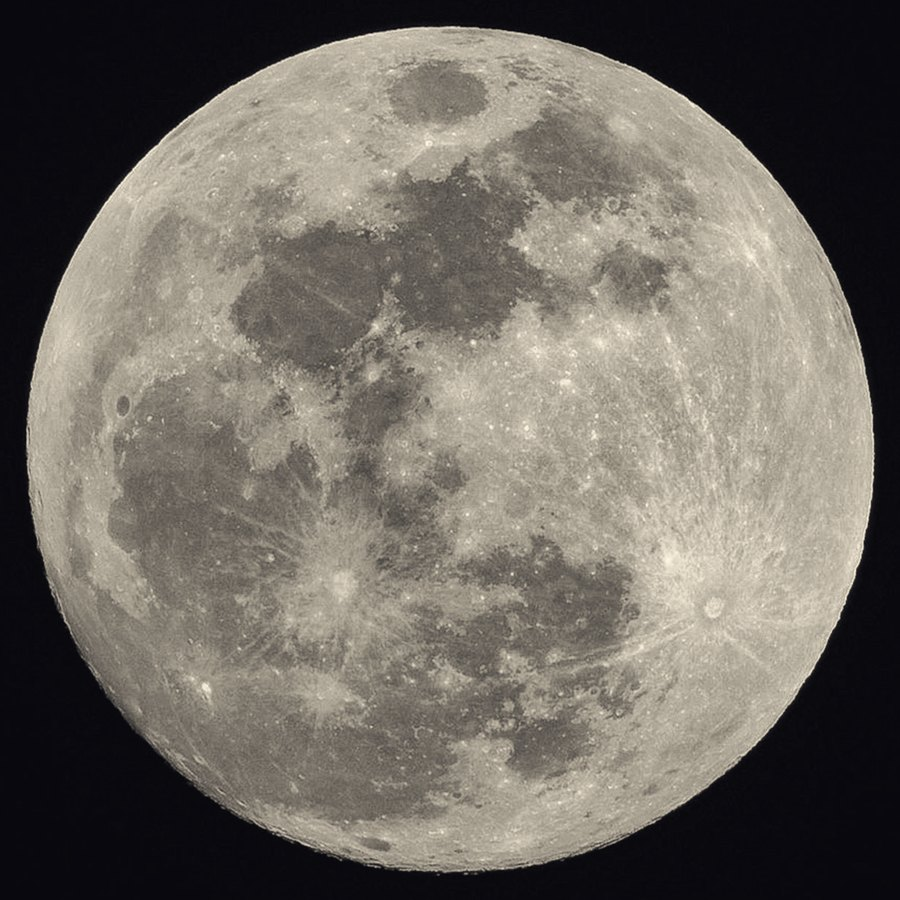
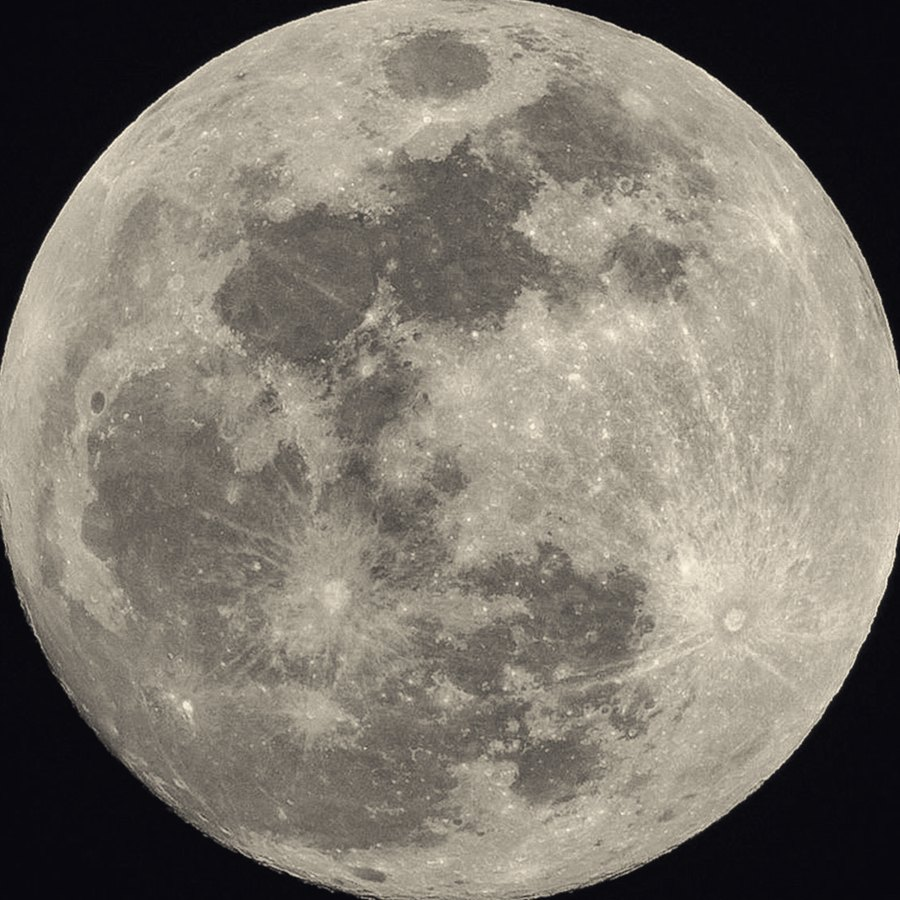
美しさの観点で調整(月の切り抜き、灯りのにじみ、縦書き見出しの組み、各ページの蛇の目を細い二重線に)
Claude-Session: https://claude.ai/code/session_01PVjXV8dmNKYwQ7n8ZeZFDQ

diff --git a/assets/style.css b/assets/style.css
@@ -76,11 +76,14 @@ h1, h2, h3 { font-family: var(--font-display); text-wrap: balance; line-height: 
 .hero h1 { font-size: clamp(30px, 5vw, 46px); font-weight: 700; letter-spacing: .04em; }
 .hero p { color: var(--muted); max-width: 36em; margin: 14px 0 0; }
 .eyebrow { font-size: 12px; letter-spacing: .18em; color: var(--ai); font-weight: 700; margin-bottom: 10px; }
-.janome { width: min(280px, 70vw); aspect-ratio: 1; max-width: 100%; justify-self: center; border-radius: 50%;
-  background: radial-gradient(circle, var(--surface) 0 22%, var(--ai) 22.5% 34%, var(--surface) 34.5% 47%, var(--ai) 47.5% 59%, var(--surface) 59.5%);
-  border: 1px solid var(--line); box-shadow: inset 0 0 0 10px var(--surface), 0 18px 40px -24px var(--ai);
+.janome { width: min(220px, 60vw); aspect-ratio: 1; max-width: 100%; justify-self: center; border-radius: 50%;
+  /* 細い朱の二重線だけで、きき猪口の底を静かに表す */
+  background:
+    radial-gradient(circle, transparent 0 33%, var(--ai) 33.5% 35%, transparent 35.5% 55%, var(--ai) 55.5% 57.5%, transparent 58%),
+    var(--surface);
+  border: 1px solid var(--line); box-shadow: var(--shadow-1);
   display: grid; place-items: center; }
-.janome span { font-family: var(--font-display); font-size: 15px; color: var(--ai); background: var(--surface); padding: 2px 8px; border-radius: 4px; writing-mode: vertical-rl; letter-spacing: .3em; }
+.janome span { font-family: var(--font-display); font-size: 17px; color: var(--ink); writing-mode: vertical-rl; letter-spacing: .3em; }
 
 /* sections */
 .section { padding-block: 32px; }
@@ -209,7 +212,8 @@ td.nm { font-family: var(--font-display); font-weight: 700; white-space: nowrap;
   .hero .wrap { grid-template-columns: 1fr; gap: 14px; padding-block: 20px 4px; }
   .hero h1 { font-size: 26px; }
   .hero p { font-size: 14px; margin-top: 8px; }
-  .janome { width: 120px; justify-self: center; order: -1; }
+  .janome { width: 140px; justify-self: center; order: -1; }
+  .janome span { font-size: 14px; letter-spacing: .12em; }
   .eyebrow { margin-bottom: 6px; }
   .section { padding-block: 20px; }
   .section-head h2 { font-size: 20px; }
@@ -380,18 +384,19 @@ body::after {
   background: radial-gradient(circle, var(--moonlight) 0%, transparent 62%); pointer-events: none;
 }
 .hero-c::after { /* 提灯の灯り */
-  content: ""; position: absolute; width: 520px; height: 520px; right: -200px; bottom: -260px; border-radius: 50%;
-  background: radial-gradient(circle, color-mix(in srgb, var(--ai) 22%, transparent) 0%, transparent 65%); pointer-events: none;
+  content: ""; position: absolute; width: 520px; height: 520px; right: -220px; bottom: -60px; border-radius: 50%;
+  background: radial-gradient(circle, color-mix(in srgb, var(--ai) 10%, transparent) 0%, transparent 70%); pointer-events: none;
 }
 .hero-c .wrap { position: relative; z-index: 1; }
-.hc-body { display: grid; grid-template-columns: minmax(0, 1fr) auto minmax(0, 1fr); align-items: center; gap: 32px; min-height: 520px; padding-block: 32px 24px; }
+.hc-body { display: grid; grid-template-columns: minmax(0, 1fr) auto minmax(0, 1fr); align-items: center; gap: 48px; min-height: 480px; padding-block: 48px 16px; }
 .hc-moon {
   justify-self: center; width: min(300px, 80%); aspect-ratio: 1; max-width: 100%; border-radius: 50%;
-  background: url(../images/moon.jpg?v=2) center / cover;
+  background: url(../images/moon.jpg?v=3) center / cover;
   box-shadow: 0 0 0 10px var(--bg), 0 0 0 11px var(--line), 0 0 80px 10px var(--moonlight), var(--shadow-2);
   will-change: transform;
 }
-.hc-tate { writing-mode: vertical-rl; font-family: var(--font-display); justify-self: center; display: flex; gap: 28px; }
+.hc-tate { writing-mode: vertical-rl; font-family: var(--font-display); justify-self: center; }
+.hc-tate p { margin-block-start: 26px; padding-top: 3.2em; }
 .hc-tate h1 { font-weight: 600; font-size: clamp(30px, 4.2vw, 44px); letter-spacing: .3em; line-height: 1.6; font-feature-settings: normal; }
 .hc-tate p { margin: 0; font-size: 14px; color: var(--muted); letter-spacing: .25em; line-height: 2.2; }
 .hc-side { justify-self: start; display: grid; gap: 18px; max-width: 17em; }

diff --git a/index.html b/index.html
@@ -9,7 +9,7 @@
 <link rel="preconnect" href="https://fonts.googleapis.com">
 <link rel="preconnect" href="https://fonts.gstatic.com" crossorigin>
 <link rel="stylesheet" href="https://fonts.googleapis.com/css2?family=Shippori+Mincho+B1:wght@600;700&family=Zen+Kaku+Gothic+New:wght@400;700&display=swap">
-<link rel="stylesheet" href="assets/style.css?v=18">
+<link rel="stylesheet" href="assets/style.css?v=19">
 </head>
 <body>
 <header class="site-head">
@@ -99,6 +99,6 @@
     <span>お酒は20歳になってから。飲酒運転は法律で禁止されています。</span>
   </div>
 </footer>
-<script src="assets/app.js?v=18"></script>
+<script src="assets/app.js?v=19"></script>
 </body>
 </html>

diff --git a/guide.html b/guide.html
@@ -9,7 +9,7 @@
 <link rel="preconnect" href="https://fonts.googleapis.com">
 <link rel="preconnect" href="https://fonts.gstatic.com" crossorigin>
 <link rel="stylesheet" href="https://fonts.googleapis.com/css2?family=Shippori+Mincho+B1:wght@600;700&family=Zen+Kaku+Gothic+New:wght@400;700&display=swap">
-<link rel="stylesheet" href="assets/style.css?v=18">
+<link rel="stylesheet" href="assets/style.css?v=19">
 </head>
 <body>
 <header class="site-head">

diff --git a/kura.html b/kura.html
@@ -9,7 +9,7 @@
 <link rel="preconnect" href="https://fonts.googleapis.com">
 <link rel="preconnect" href="https://fonts.gstatic.com" crossorigin>
 <link rel="stylesheet" href="https://fonts.googleapis.com/css2?family=Shippori+Mincho+B1:wght@600;700&family=Zen+Kaku+Gothic+New:wght@400;700&display=swap">
-<link rel="stylesheet" href="assets/style.css?v=18">
+<link rel="stylesheet" href="assets/style.css?v=19">
 </head>
 <body>
 <header class="site-head">

diff --git a/miyagi.html b/miyagi.html
@@ -9,7 +9,7 @@
 <link rel="preconnect" href="https://fonts.googleapis.com">
 <link rel="preconnect" href="https://fonts.gstatic.com" crossorigin>
 <link rel="stylesheet" href="https://fonts.googleapis.com/css2?family=Shippori+Mincho+B1:wght@600;700&family=Zen+Kaku+Gothic+New:wght@400;700&display=swap">
-<link rel="stylesheet" href="assets/style.css?v=18">
+<link rel="stylesheet" href="assets/style.css?v=19">
 </head>
 <body>
 <header class="site-head">

diff --git a/tools/build_kura.py b/tools/build_kura.py
@@ -9,7 +9,7 @@ from pathlib import Path
 ROOT = Path(__file__).resolve().parent.parent
 kura = json.loads((ROOT / "data/kura.json").read_text(encoding="utf-8"))
 sakes = {s["id"]: s for s in json.loads((ROOT / "data/sakes.json").read_text(encoding="utf-8"))}
-VERSION = "18"
+VERSION = "19"
 
 AREAS = ["仙台・県央", "県南", "塩竈", "大崎・加美・遠田", "栗原・登米", "石巻・気仙沼"]
 # 地域の写真(images/ に置いたものだけ表示)
